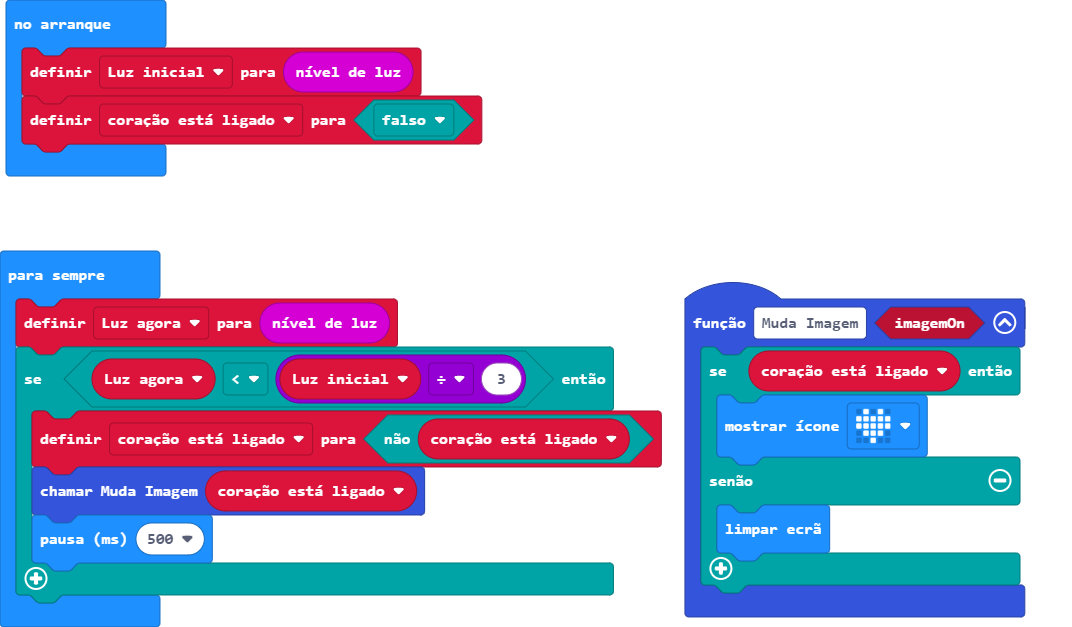
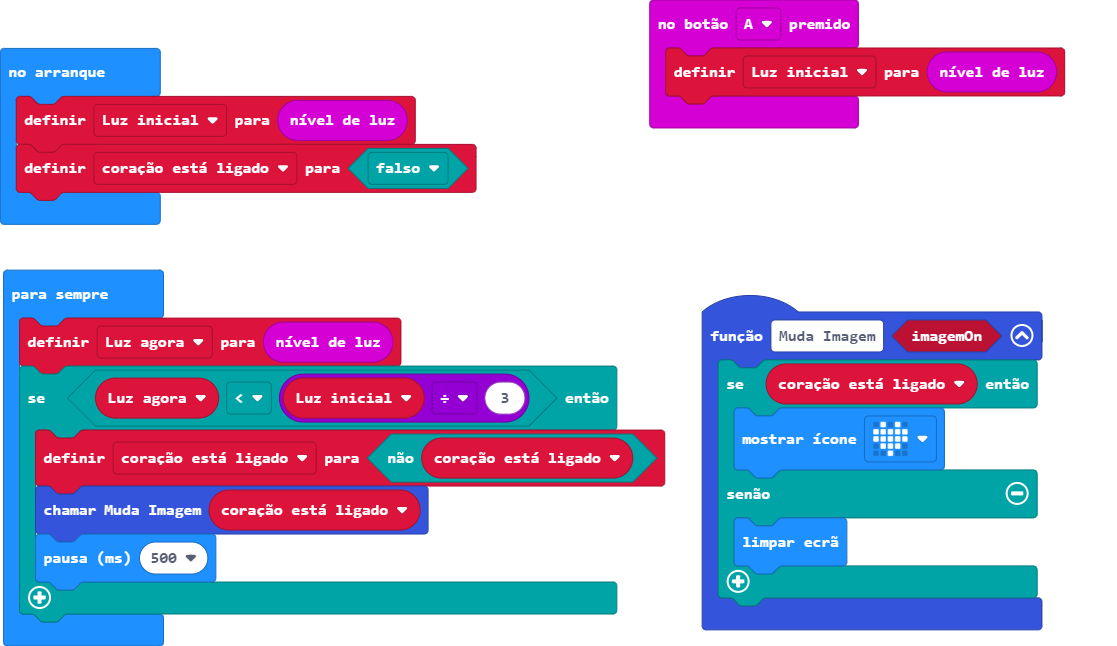
Atualização main.blocks, main.ts

diff --git a/main.ts b/main.ts
@@ -1,3 +1,6 @@
+input.onButtonPressed(Button.A, function () {
+    Luz_inicial = input.lightLevel()
+})
 function Muda_Imagem (imagemOn: boolean) {
     if (coração_está_ligado) {
         basic.showIcon(IconNames.Heart)
@@ -7,7 +10,8 @@ function Muda_Imagem (imagemOn: boolean) {
 }
 let Luz_agora = 0
 let coração_está_ligado = false
-let Luz_inicial = input.lightLevel()
+let Luz_inicial = 0
+Luz_inicial = input.lightLevel()
 coração_está_ligado = false
 basic.forever(function () {
     Luz_agora = input.lightLevel()
